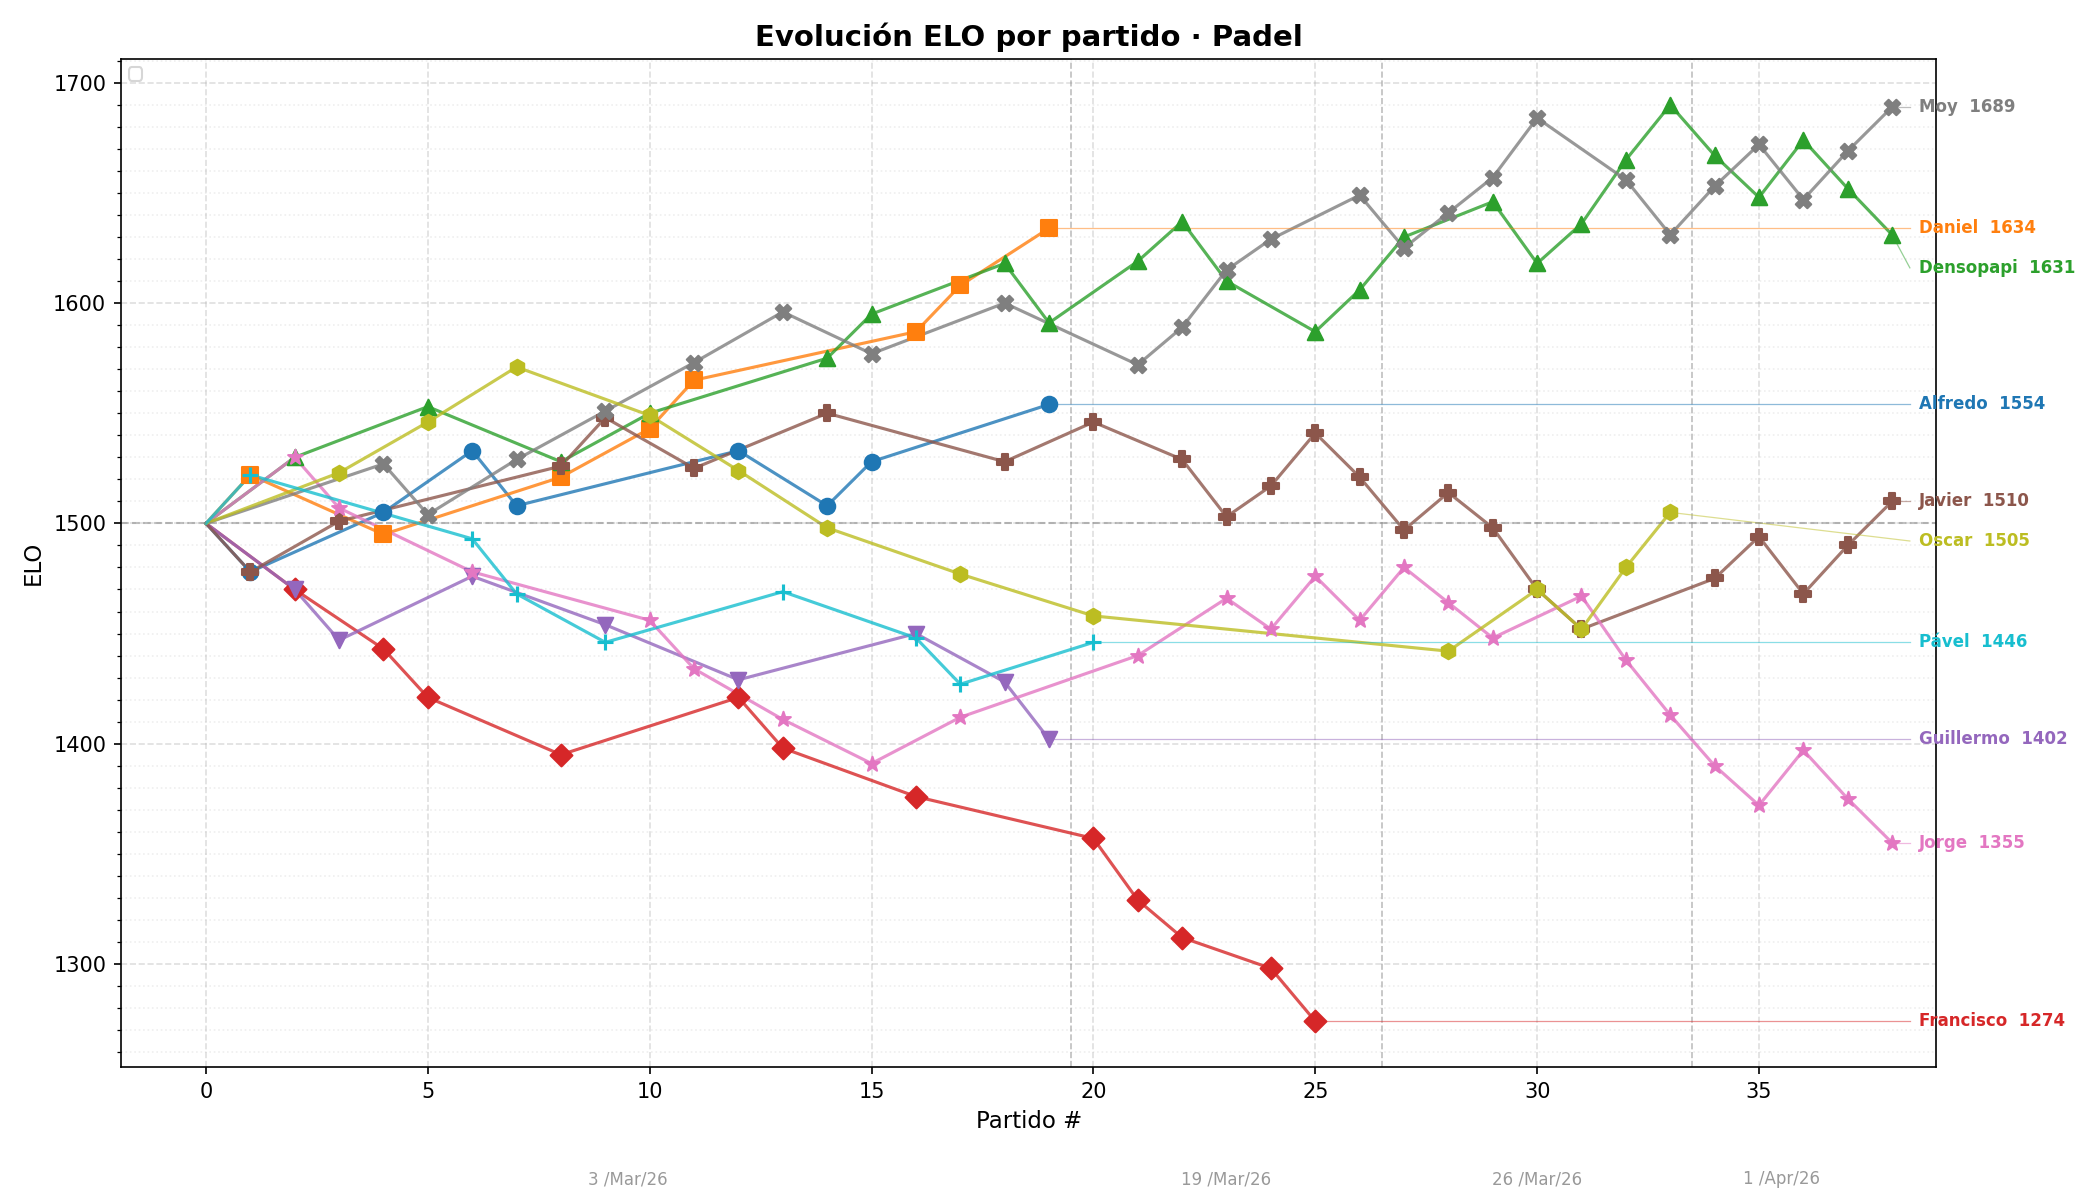
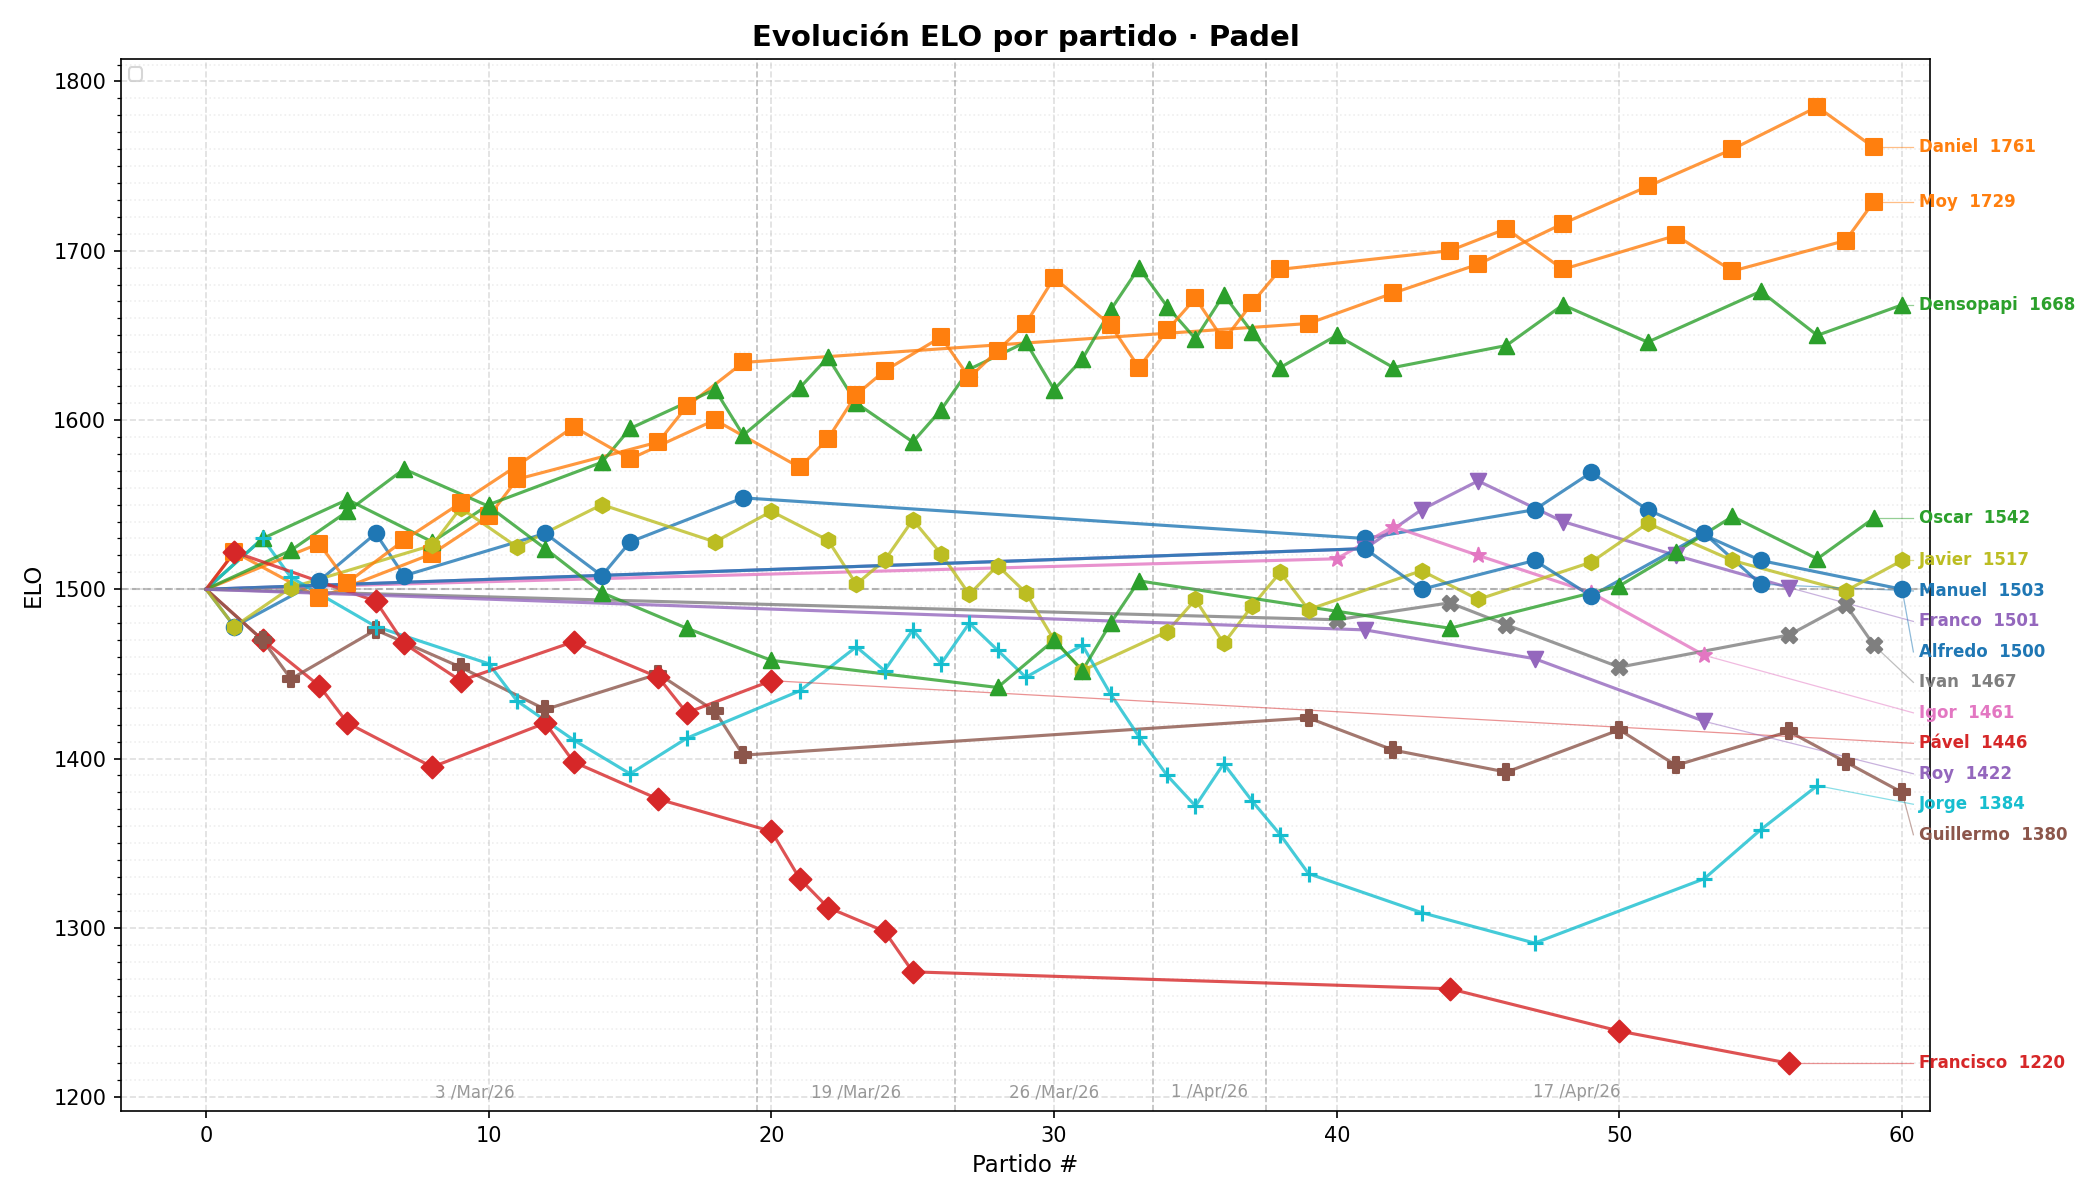
update games

diff --git a/padel_elo.py b/padel_elo.py
@@ -54,7 +54,29 @@ MATCHES_CSV = """Fecha,Ronda,Pista,Equipo 1,Equipo 2,Marcador
 1 /Apr/26,1,1,Moy / Javier,Densopapi / Jorge,6 - 5
 1 /Apr/26,2,1,Moy / Javier,Densopapi / Jorge,5 - 6
 1 /Apr/26,3,1,Moy / Javier,Densopapi / Jorge,6 - 3
-1 /Apr/26,4,1,Moy / Javier,Densopapi / Jorge,3 - 1"""
+1 /Apr/26,4,1,Moy / Javier,Densopapi / Jorge,3 - 1
+17 /Apr/26,1,1,Guillermo / Daniel,Jorge / Javier,5 - 0
+17 /Apr/26,1,2,Densopapi / Igor,Oscar / Ivan,3 - 2
+17 /Apr/26,1,3,Alfredo / Roy,Manuel / Franco,2 - 3
+17 /Apr/26,2,1,Guillermo / Densopapi,Daniel / Igor,2 - 3
+17 /Apr/26,2,2,Jorge / Manuel,Javier / Franco,0 - 5
+17 /Apr/26,2,3,Francisco / Oscar,Moy / Ivan,2 - 3
+17 /Apr/26,3,1,Daniel / Franco,Igor / Javier,3 - 2
+17 /Apr/26,3,2,Guillermo / Ivan,Densopapi / Moy,0 - 5
+17 /Apr/26,3,3,Manuel / Alfredo,Jorge / Roy,4 - 1
+17 /Apr/26,4,1,Daniel / Densopapi,Franco / Moy,4 - 1
+17 /Apr/26,4,2,Igor / Manuel,Javier / Alfredo,2 - 3
+17 /Apr/26,4,3,Francisco / Ivan,Oscar / Guillermo,0 - 5
+17 /Apr/26,5,1,Daniel / Javier,Densopapi / Alfredo,3 - 2
+17 /Apr/26,5,2,Franco / Guillermo,Moy / Oscar,0 - 5
+17 /Apr/26,5,3,Manuel / Jorge,Igor / Roy,5 - 0
+17 /Apr/26,6,1,Daniel / Oscar,Javier / Moy,3 - 2
+17 /Apr/26,6,2,Densopapi / Jorge,Alfredo / Manuel,4 - 1
+17 /Apr/26,6,3,Francisco / Franco,Ivan / Guillermo,2 - 3
+17 /Apr/26,7,1,Densopapi / Oscar,Jorge / Daniel,2 - 3
+17 /Apr/26,7,2,Javier / Guillermo,Moy / Ivan,1 - 4
+17 /Apr/26,8,1,Ivan / Daniel,Moy / Oscar,2 - 3
+17 /Apr/26,8,2,Densopapi / Javier,Alfredo / Guillermo,4 - 1"""
 
 
 def normalize_name(name: str) -> str:

diff --git a/README.md b/README.md
@@ -100,7 +100,7 @@ Tabla global con ELO total, victorias, derrotas, porcentaje de victorias, partid
 
 Una gráfica de líneas con la evolución del ELO de cada jugador sesión a sesión, guardada automáticamente en el directorio del proyecto.
 
-![Ejemplo de gráfica ELO](elo_evolution.png?v=2)
+![Ejemplo de gráfica ELO](elo_evolution.png?v=3)
 
 ---
 
@@ -169,6 +169,26 @@ Los resultados de los partidos están registrados en el siguiente spreadsheet:
 | 8 | Guillermo | 1402 |
 | 9 | Jorge | 1355 |
 | 10 | Francisco | 1274 |
+
+### 17/Apr/26
+
+| # | Jugador | ELO |
+|---|---------|-----|
+| 🥇 | Daniel | 1761 |
+| 🥈 | Moy | 1729 |
+| 🥉 | Densopapi | 1668 |
+| 4 | Oscar | 1542 |
+| 5 | Javier | 1517 |
+| 6 | Manuel | 1503 |
+| 7 | Franco | 1501 |
+| 8 | Alfredo | 1500 |
+| 9 | Ivan | 1467 |
+| 10 | Igor | 1461 |
+| 11 | Pável | 1446 |
+| 12 | Roy | 1422 |
+| 13 | Jorge | 1384 |
+| 14 | Guillermo | 1380 |
+| 15 | Francisco | 1220 |
 
 ---
 
